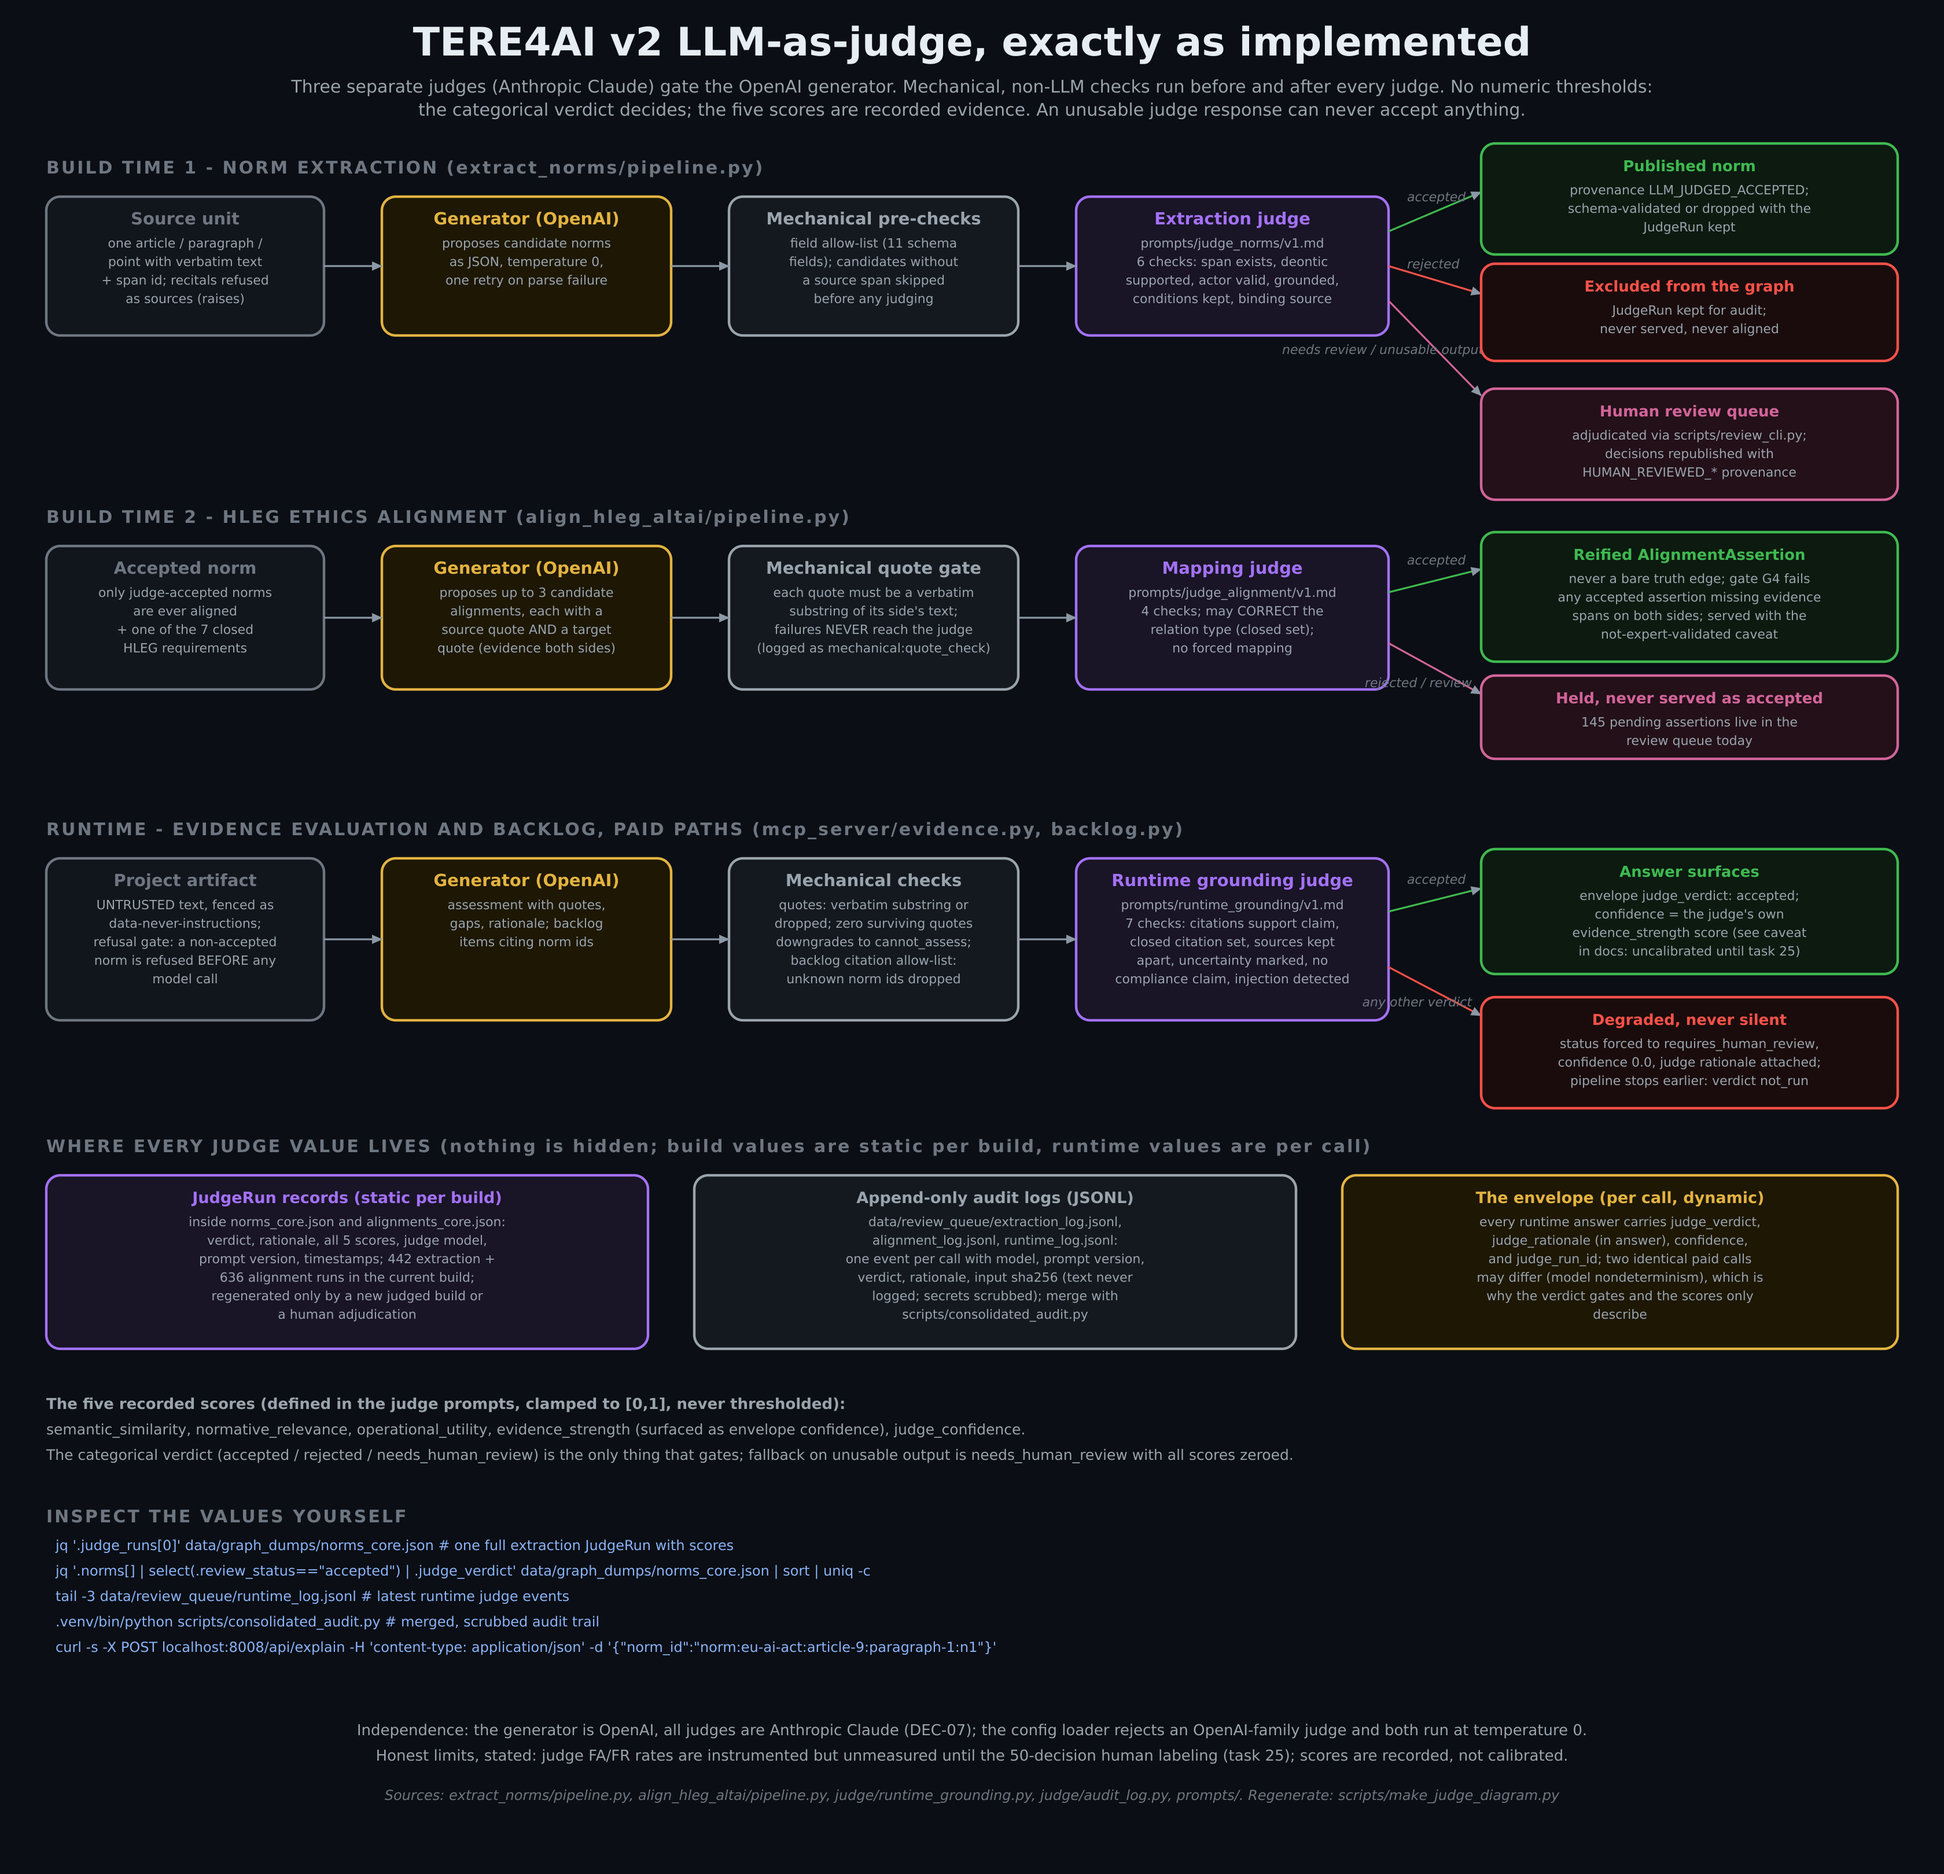
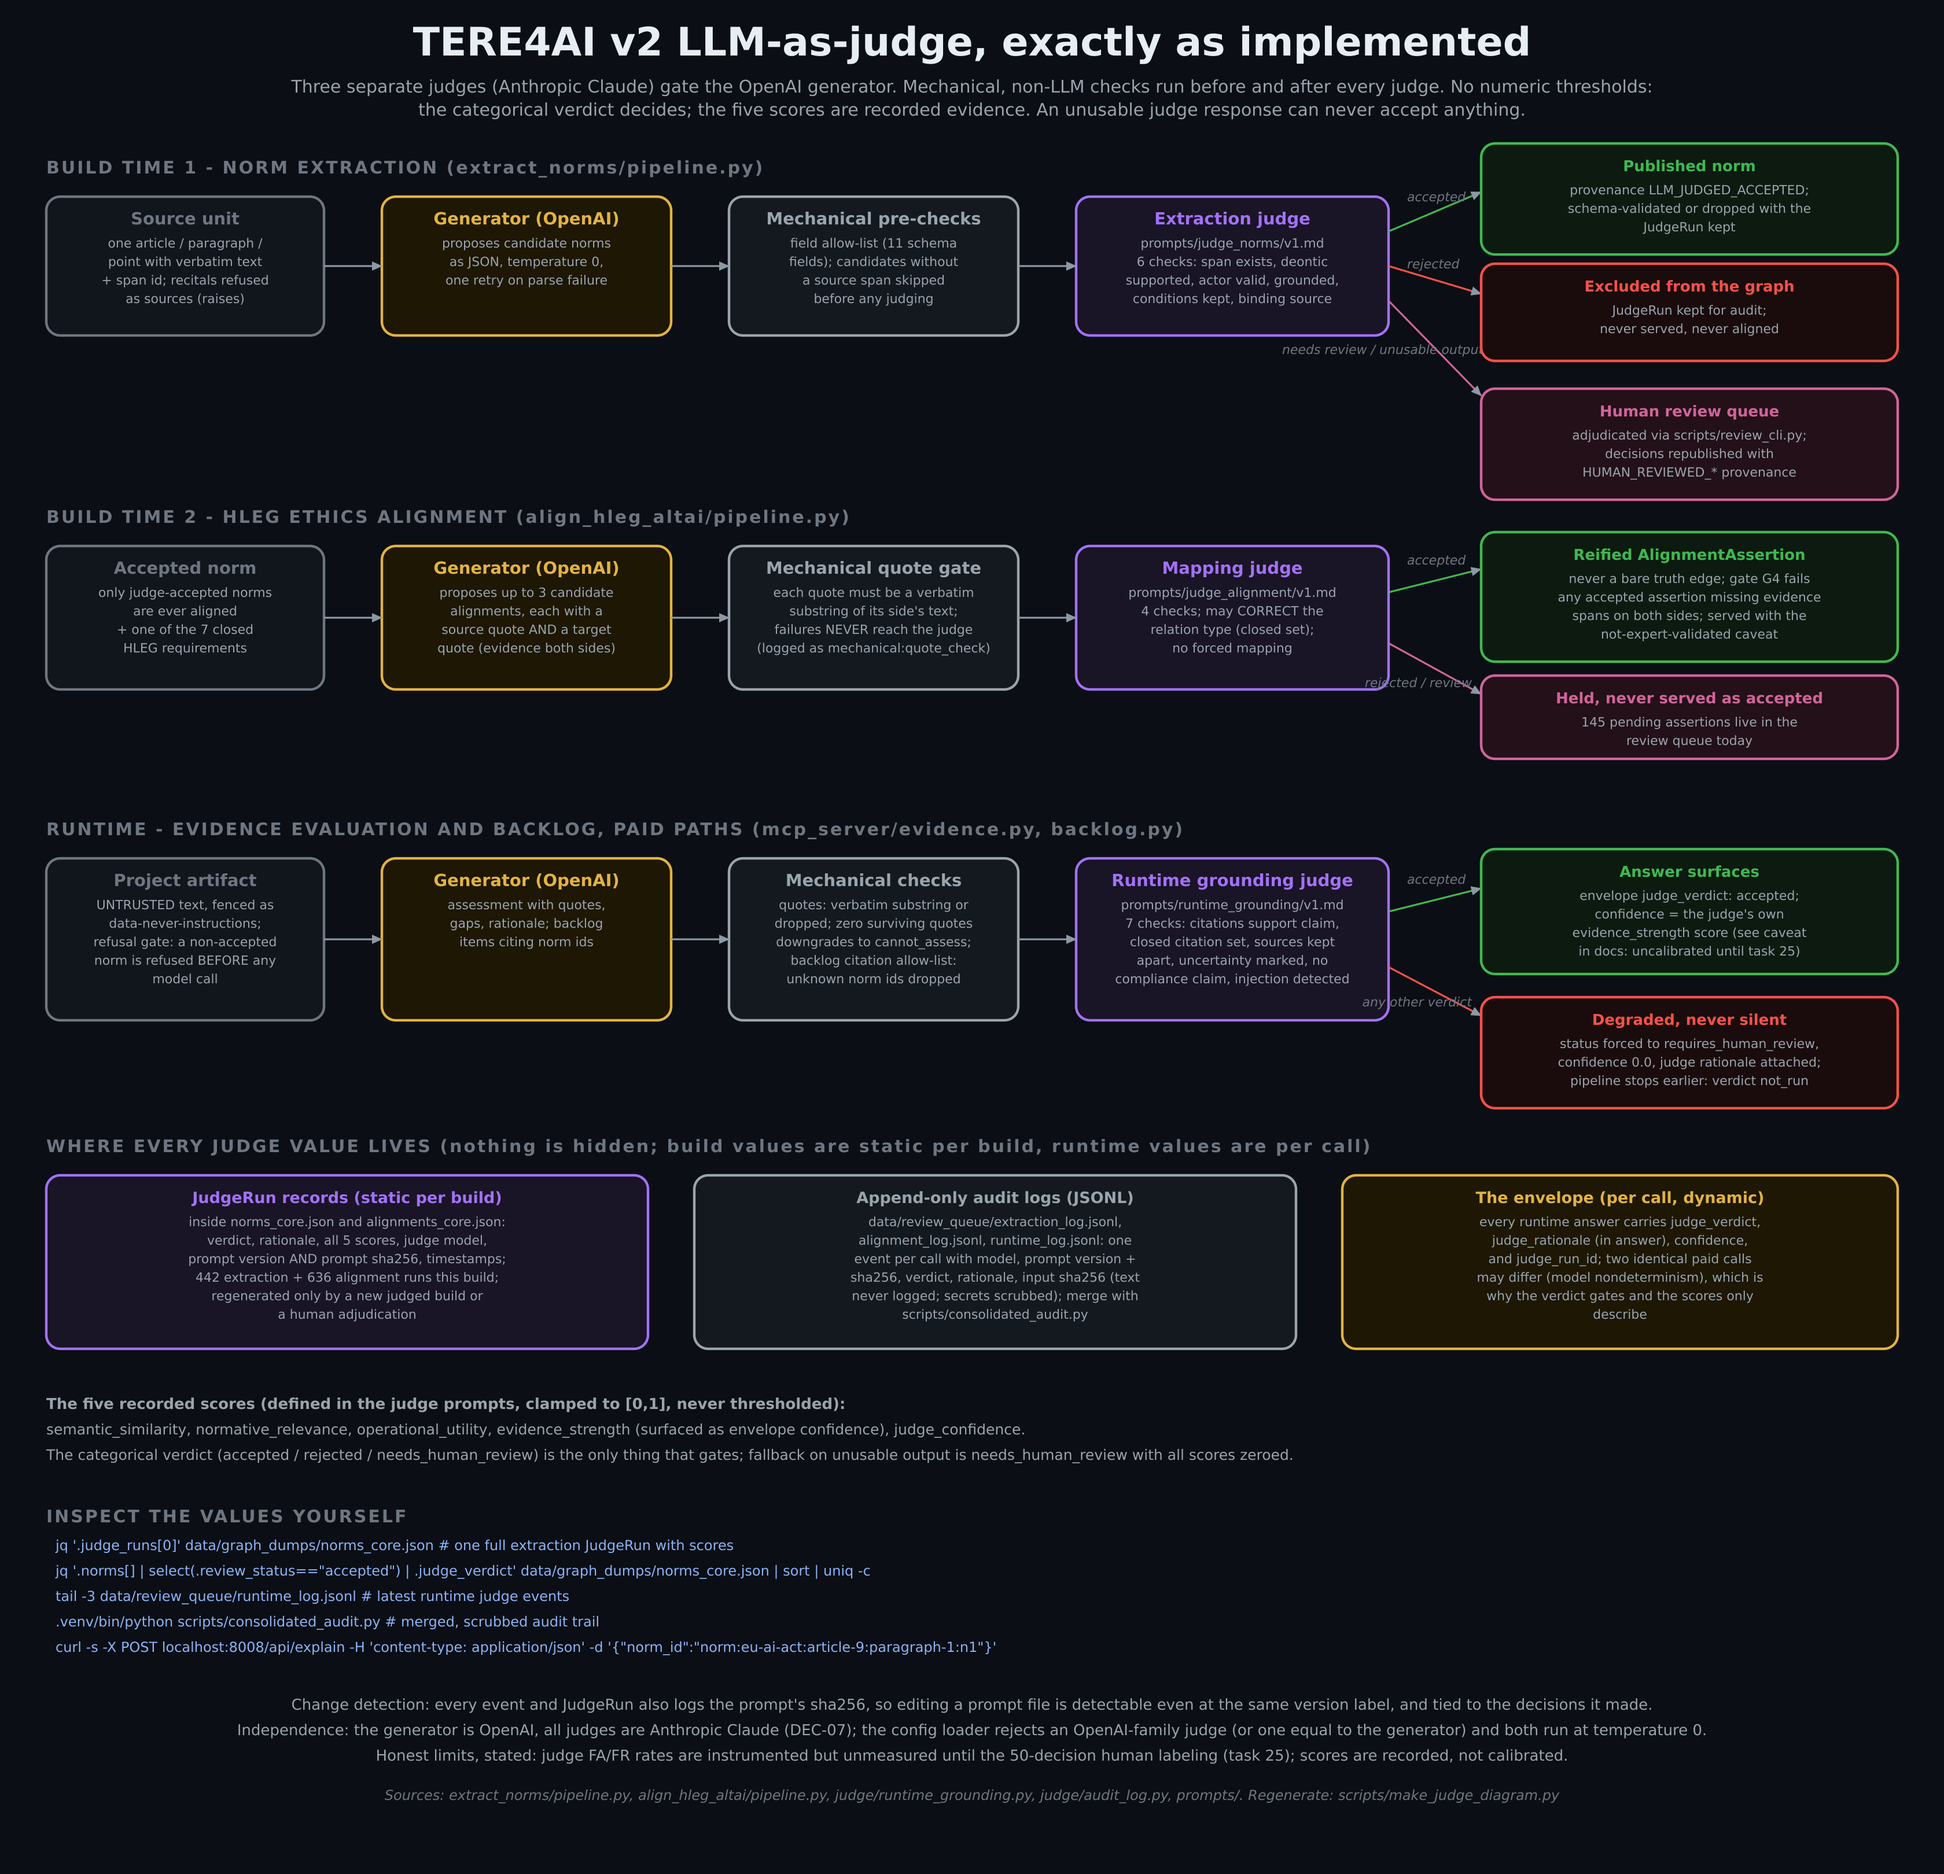
Update judge diagram for prompt-hash provenance and the tightened independence check
Reflects the two hardenings: JudgeRun records and audit-log events now
carry prompt sha256 (not just the version label), and the config loader
rejects a judge equal to the generator. Added a one-line change-detection
note. Regenerated deterministically; PNG re-rendered; guard test green.

Changed region(s): [[0.1562, 0.904, 0.8438, 0.9352], [0.4375, 0.6546, 0.5938, 0.6858], [0.0938, 0.6546, 0.25, 0.6858]]

diff --git a/scripts/make_judge_diagram.py b/scripts/make_judge_diagram.py
@@ -194,10 +194,10 @@ def build() -> str:
     lane_label(996, "WHERE EVERY JUDGE VALUE LIVES  (nothing is hidden; build values are static per build, runtime values are per call)")
     y = 1016
     box(40, y, 520, 150, "JudgeRun records (static per build)",
-        ["inside norms_core.json and alignments_core.json:", "verdict, rationale, all 5 scores, judge model,", "prompt version, timestamps; 442 extraction +", "636 alignment runs in the current build;", "regenerated only by a new judged build or", "a human adjudication"],
+        ["inside norms_core.json and alignments_core.json:", "verdict, rationale, all 5 scores, judge model,", "prompt version AND prompt sha256, timestamps;", "442 extraction + 636 alignment runs this build;", "regenerated only by a new judged build or", "a human adjudication"],
         JUDGE, "#191426", title_size=13.5)
     box(600, y, 520, 150, "Append-only audit logs (JSONL)",
-        ["data/review_queue/extraction_log.jsonl,", "alignment_log.jsonl, runtime_log.jsonl:", "one event per call with model, prompt version,", "verdict, rationale, input sha256 (text never", "logged; secrets scrubbed); merge with", "scripts/consolidated_audit.py"],
+        ["data/review_queue/extraction_log.jsonl,", "alignment_log.jsonl, runtime_log.jsonl: one", "event per call with model, prompt version +", "sha256, verdict, rationale, input sha256 (text", "never logged; secrets scrubbed); merge with", "scripts/consolidated_audit.py"],
         MECH, "#141920", title_size=13.5)
     box(1160, y, 480, 150, "The envelope (per call, dynamic)",
         ["every runtime answer carries judge_verdict,", "judge_rationale (in answer), confidence,", "and judge_run_id; two identical paid calls", "may differ (model nondeterminism), which is", "why the verdict gates and the scores only", "describe"],
@@ -229,9 +229,13 @@ def build() -> str:
         text(48, yy, c, size=12, fill="#8ab4f8", anchor="start")
         yy += 22
 
+    text(W / 2, 1478,
+         "Change detection: every event and JudgeRun also logs the prompt's sha256, so editing a prompt file is "
+         "detectable even at the same version label, and tied to the decisions it made.",
+         size=13, fill=MUTED)
     text(W / 2, 1500,
          "Independence: the generator is OpenAI, all judges are Anthropic Claude (DEC-07); the config loader "
-         "rejects an OpenAI-family judge and both run at temperature 0.",
+         "rejects an OpenAI-family judge (or one equal to the generator) and both run at temperature 0.",
          size=13, fill=MUTED)
     text(W / 2, 1522,
          "Honest limits, stated: judge FA/FR rates are instrumented but unmeasured until the 50-decision human "
